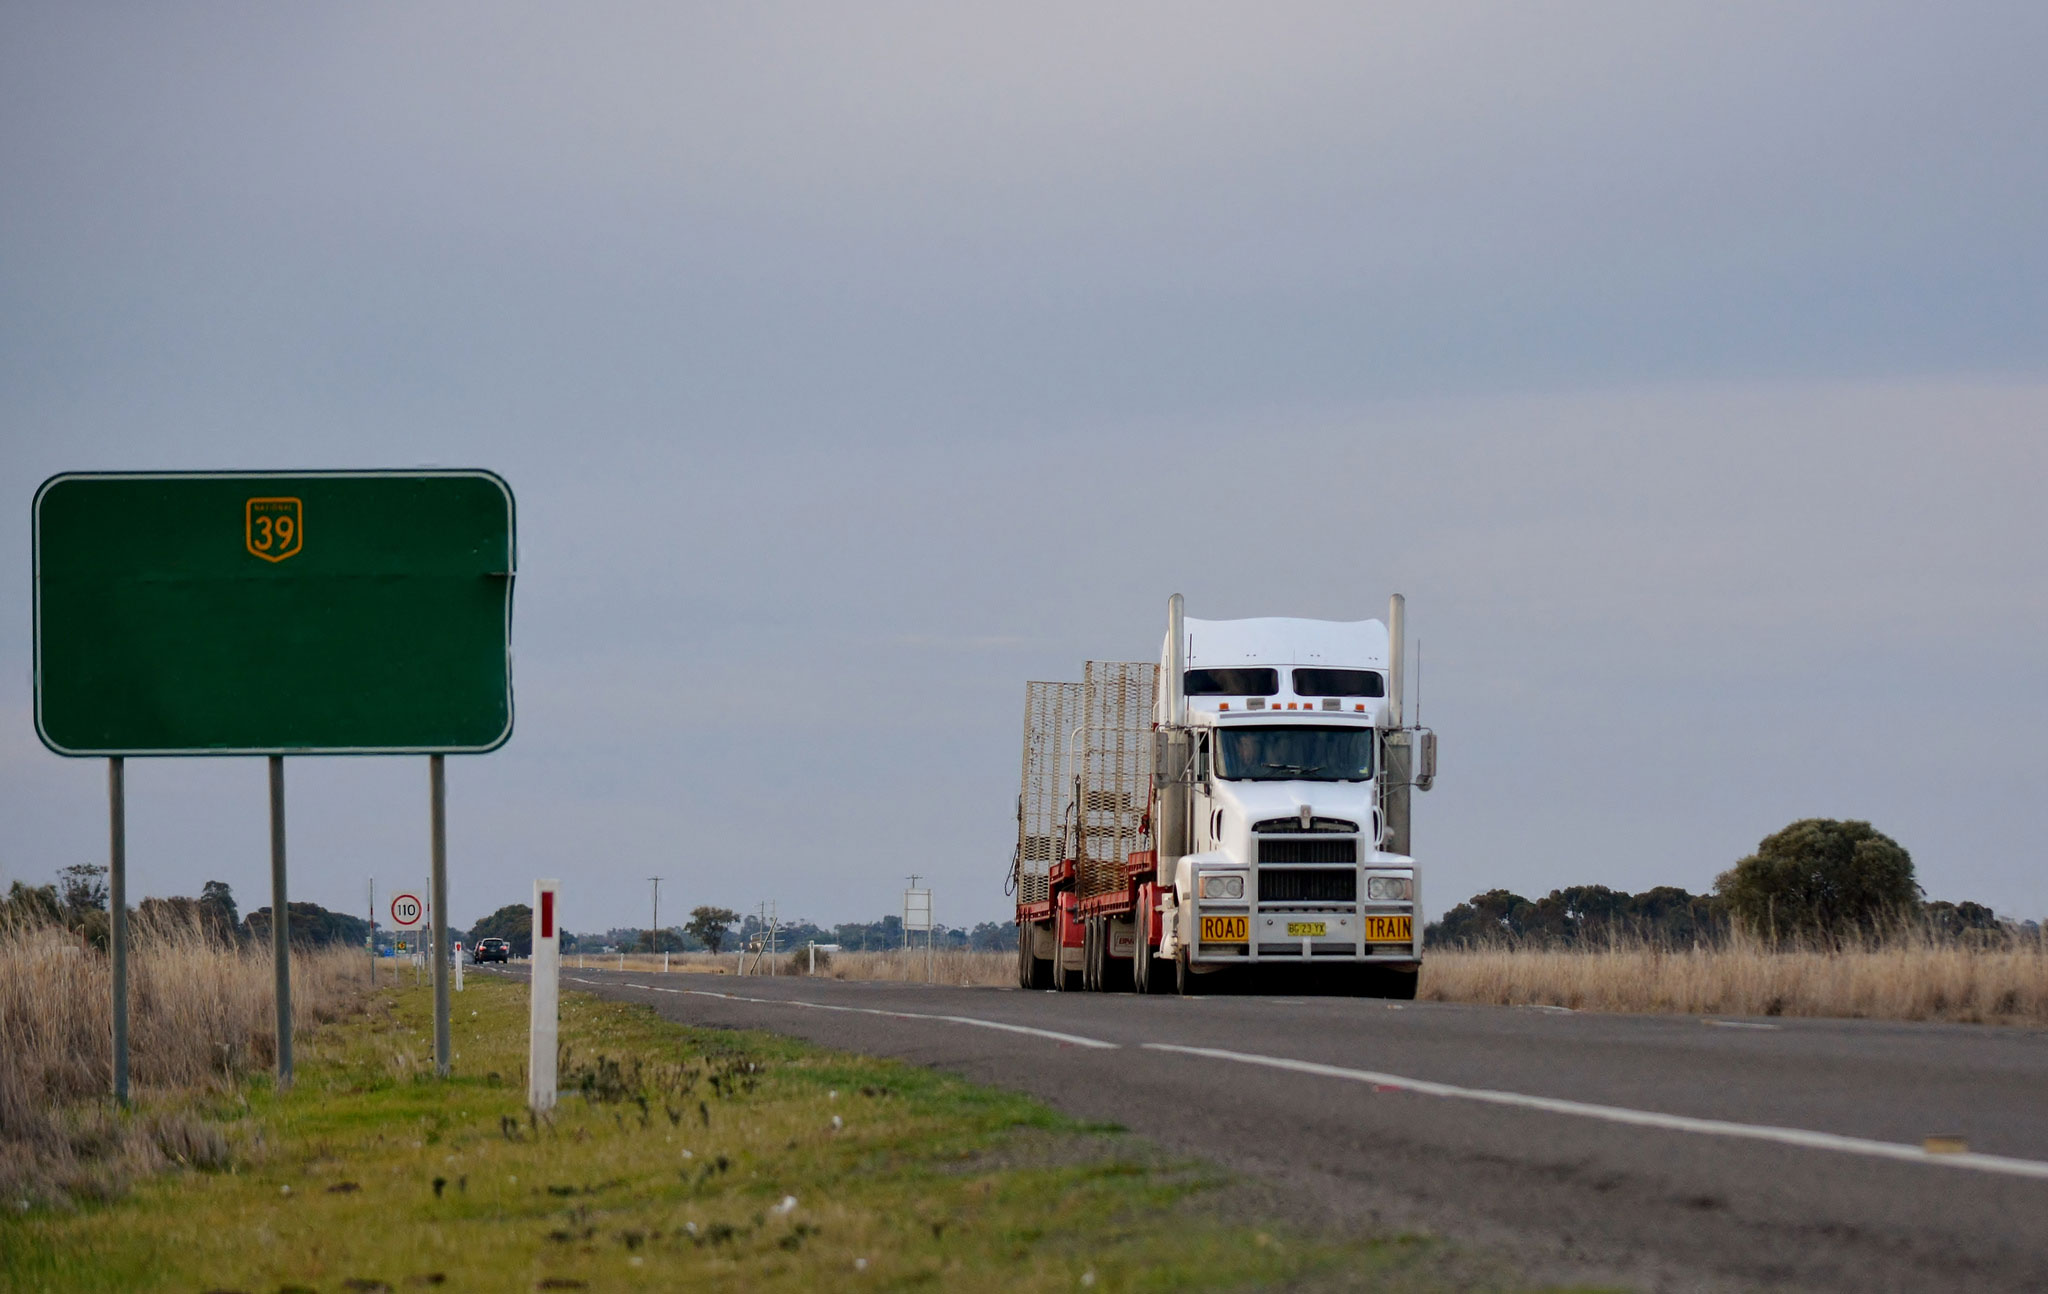
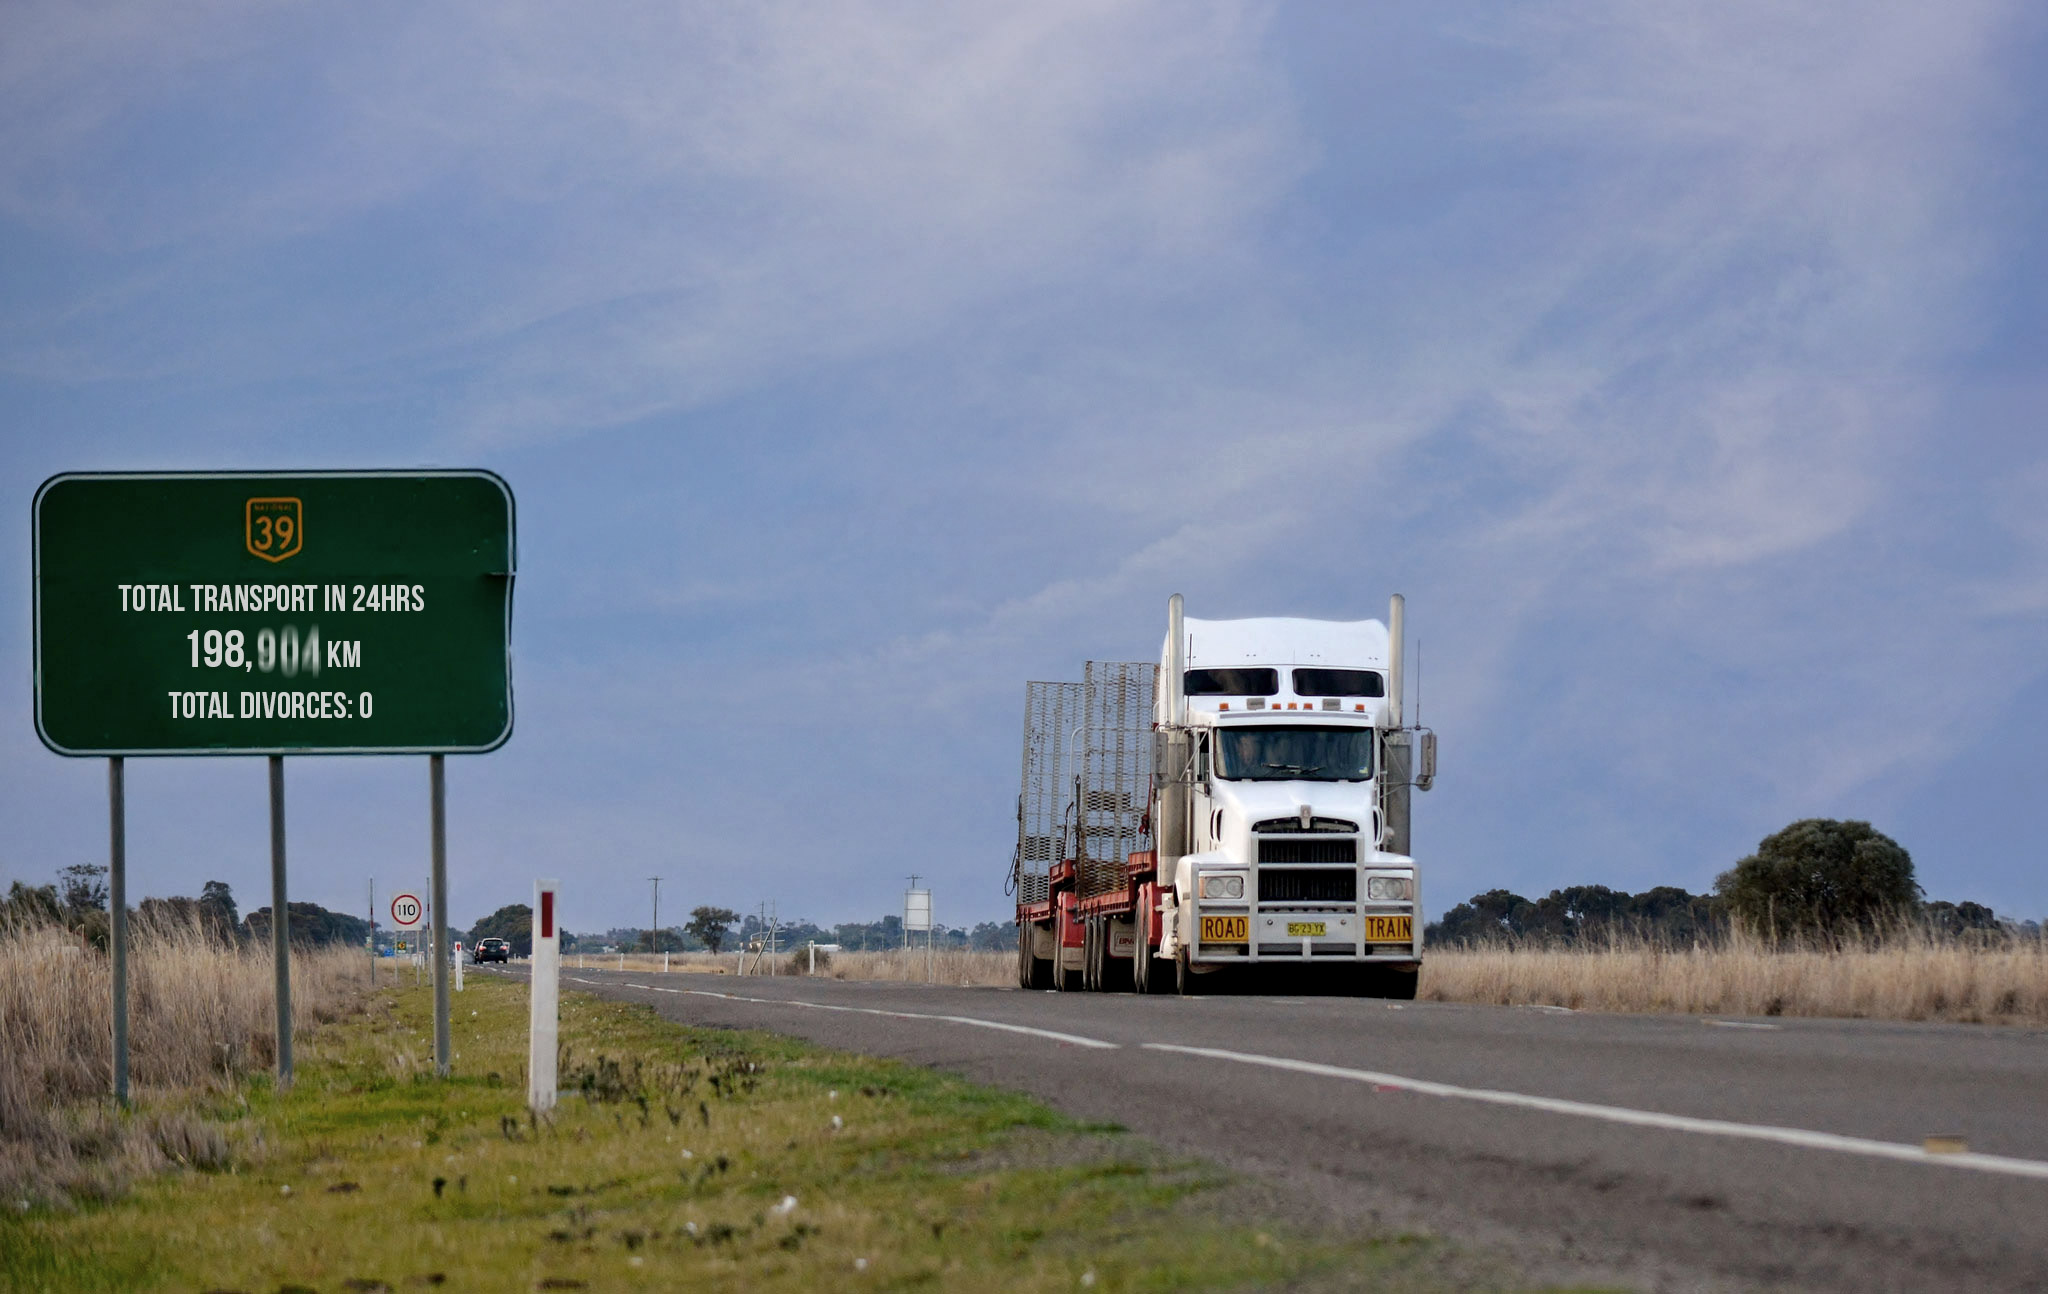
Blue sky update

diff --git a/src/_scss/app/layout/_header.scss b/src/_scss/app/layout/_header.scss
@@ -84,12 +84,21 @@ $header-height-lg: 220px !default;
 }
 
 //-----------------------------------------------------------------
+// Container
+//-----------------------------------------------------------------
+
+.global-header .container {
+	position: relative;
+}
+
+//-----------------------------------------------------------------
 // Logo
 //-----------------------------------------------------------------
 
 .global-header .logo {
 	position: relative;
 	top: 0;
+	display: inline-block;
 
 	@include media-breakpoint-up(md) {
 	    top: 0;
@@ -105,17 +114,18 @@ $header-height-lg: 220px !default;
 
 	img {
 		// width: auto;
-		width: 150px;
+		width: 120px;
 		height: $header-height-sm;
 		padding: rem-calc(5 0);
 
 		@include media-breakpoint-up(md) {
-			width: 298px;
+			width: 250px;
 		    height: $header-height-md;
 		    padding: rem-calc(15 0);
 		}
 
 		@include media-breakpoint-up(xl) {
+			width: 300px;
 		    height: auto;
 		    padding: none;
 		}
@@ -123,26 +133,71 @@ $header-height-lg: 220px !default;
 }
 
 //-----------------------------------------------------------------
+// Counter
+//-----------------------------------------------------------------
+
+.global-header .counter {
+	position: relative;
+	// top: 3px;
+	display: inline-block;
+	color: white;
+	padding-right: 200px;
+	float: right;
+
+	.number,
+	.km {
+		font-weight: bold;
+		font-size: rem-calc(40);
+	}
+
+	.km {
+		font-weight: 300;
+	}
+
+	.text {
+		display: inline-block;
+		padding-left: 5px;
+		max-width: 140px;
+		font-size: rem-calc(12);
+	}
+}
+
+//-----------------------------------------------------------------
 // Hamburger
 //-----------------------------------------------------------------
 
-.global-mobile-menu {
+.global-menu {
 	position: absolute;
 	right: 15px;
-	top: 50%;
+	top: calc(50% - 34px/2); // 34=height of buttons
 	display: block;
 	overflow: hidden;
-
-	@include media-breakpoint-up(md) {
-	    top: calc(50% - 30px/2);
-	}
+	text-transform: uppercase;
 
 	.hamburger {
-		display: block;
-		font-size: rem-calc(35);
-		line-height: 0;
-		color: #383D43;
+		float: right;
+		margin-left: 5px;
+	}
+
+	.global-menu-btn {
+		display: inline-block;
+		font-size: rem-calc(14);
+		line-height: 34px;
+		color: white;
 		cursor: pointer;
+		background: $brand-primary;
+		padding: rem-calc(0 15);
+		border-radius: 5px;
+
+		i {
+			@include media-breakpoint-up(sm) {
+			    padding-left: 6px;
+			}
+		}
+
+		&:hover {
+			background: lighten($brand-primary, 10%);
+		}
 	}
 }
 

diff --git a/src/_includes/footer.html b/src/_includes/footer.html
@@ -8,7 +8,8 @@
         <div class="row">
             <div class="col-md-3">
 
-                <h2>Company</h2>
+                <!-- Hardcoded Links -->
+                <h3>Company</h3>
                 <ul class="block-grid-xs-1">
                     <li><a href="/about-us/">About Us</a></li>
                     <li><a href="/history/">History</a></li>
@@ -20,10 +21,12 @@
                     <li><a href="/contact-us/">Contact Us</a></li>
                 </ul>
 
+                <div class="spacer m-b-1 hidden-md-up"></div>
+
             </div>
             <div class="col-md-6">
 
-                <h2>Categories</h2>
+                <h3>Categories</h3>
                 <ul class="block-grid-xs-1 block-grid-md-2">
                     {% for item in cargo_categories %}
                         <li class="{% if item.status == 'new' %}new-flag{% endif %}"><a href="#">{{ item.title }}</a></li>
@@ -31,9 +34,11 @@
                     <li><a href="#">And More...</a></li>
                 </ul>
 
+                <div class="spacer m-b-1 hidden-md-up"></div>
+
             </div>
             <div class="col-md-3">
-                <h2>Connect</h2>
+                <h3>Connect</h3>
                 <ul class="social-media">
                     <li class="facebook"><a href="{{ settings.facebook }}"><i class="fa fa-facebook"></i></a></li>
                     <li class="twitter"><a href="{{ settings.twitter }}"><i class="fa fa-twitter"></i></a></li>
@@ -48,10 +53,10 @@
 <section class="global-footer-bottom">
     <div class="container text-xs-center">
         <p>
-            <a href="/sitemap/">Sitemap</a>
-            <a href="/docs/">Docs</a><br>
-            &copy; Loadshift Transport System<br>
-            All Rights Reserved<br>
+            <a href="/sitemap/">Sitemap</a><br>
+            <!-- <a href="/docs/">Docs</a><br> -->
+            &copy; {{ site.time | date: '%Y' }} Loadshift Transport System<br>
+            All Rights Reserved.<br>
             Use of this website consitutes acceptance of loadshift's <a href="/terms-and-conditions/">Terms &amp; Conditions</a> and <a href="/privacy-policy/">Privacy Policy</a>.
         </p>
     </div>

diff --git a/src/_includes/header.html b/src/_includes/header.html
@@ -1,5 +1,4 @@
 {% assign settings = site.data.settings %}
-{% assign logo = "/assets/images/content/logo.png" %}
 {% assign logo = "/img/content/logo-white.svg" %}
 
 <div class="container">
@@ -11,9 +10,17 @@
                 <img src="{{ logo }}" alt="{{ settings.company_title }}" itemprop="logo">
             </a>
 
-            <!-- Hamburger -->
-            <div class="global-mobile-menu hidden-xl-up">
-                <a class="hamburger"><i class="fa fa fa-navicon"></i></a>
+            <!-- Counter -->
+            <div class="counter hidden-md-down fill-1">
+                <span class="number">198,001</span>
+                <span class="km">km</span>
+                <span class="text">of requested transport added in the last 24hrs.</span>
+            </div>
+
+            <!-- Menu -->
+            <div class="global-menu">
+                <a class="global-menu-btn hamburger"><span>Menu</span><i class="fa fa fa-navicon hidden-sm-down"></i></a>
+                <a class="global-menu-btn"><span class="hidden-sm-down">Login</span><i class="fa fa fa-user"></i></a>
             </div>
 
         </div>

diff --git a/src/_scss/bootstrap/_settings.scss b/src/_scss/bootstrap/_settings.scss
@@ -194,7 +194,7 @@ $lg-only: "screen and (min-width: #{map-get($grid-breakpoints, lg)}) and (max-wi
 // // Pixel value used to responsively scale all typography. Applied to the `<html>` element.
 // $font-size-root:             16px !default;
 
-// $font-size-base:             1rem !default;
+$font-size-base:             rem-calc(14); //1rem !default;
 // $font-size-lg:               1.25rem !default;
 // $font-size-sm:               .875rem !default;
 // $font-size-xs:               .75rem !default;
@@ -219,8 +219,8 @@ $lg-only: "screen and (min-width: #{map-get($grid-breakpoints, lg)}) and (max-wi
 // $line-height:                1.5 !default;
 
 // $headings-margin-bottom:     ($spacer / 2) !default;
-$headings-font-family:          'Jura', sans-serif; //inherit !default;
-$headings-font-weight:       600 !default;
+// $headings-font-family:          'Jura', sans-serif; //inherit !default;
+$headings-font-weight:       500 !default;
 // $headings-line-height:       1.1 !default;
 $headings-color:             $brand-primary; //inherit !default;
 

diff --git a/src/_scss/app/components/_social-media.scss b/src/_scss/app/components/_social-media.scss
@@ -22,15 +22,22 @@
 
 	a {
 		display: inline-block;
+		width: 44px;
+		height: 44px;
+		margin: rem-calc(0 5 5 0);
+		border-radius: 8px;
+		line-height: 44px;
 		background: $brand-primary;
-		width: 60px;
-		height: 60px;
-		line-height: 60px;
-		font-size: rem-calc(40);
+		font-size: rem-calc(25);
 		color: white;
 		text-align: center;
-		border-radius: 8px;
-		margin-bottom: 5px;
+
+		@include media-breakpoint-up(lg) {
+		    width: 60px;
+		    height: 60px;
+		    line-height: 60px;
+		    font-size: rem-calc(40);
+		}
 
 		&:hover {
 			background: lighten($brand-primary, 10%);

diff --git a/src/_scss/app/pages/_homepage.scss b/src/_scss/app/pages/_homepage.scss
@@ -12,9 +12,12 @@
 //-----------------------------------------------------------------
 
 .hero-feature-panels {
-	position: absolute;
-	bottom: 0;
 	width: 100%;
+
+	@include media-breakpoint-up(lg) {
+	    position: absolute;
+	    bottom: 0;
+	}
 
 	.container {
 		background: white;
@@ -31,6 +34,13 @@
 	// 	    padding: 0 7px;
 	// 	}
 	// }
+
+	a {
+		@include media-breakpoint-down(sm) {
+		    display: inline-block;
+		    margin-bottom: $spacer-y;
+		}
+	}
 
 	img {
 		// border: 10px solid white;

diff --git a/src/_scss/app/components/_type.scss b/src/_scss/app/components/_type.scss
@@ -27,7 +27,7 @@
 // }
 
 h1, h2, h3, h4, h5, h6 {
-	font-variant: small-caps;
+	// font-variant: small-caps;
 }
 
 //-----------------------------------------------------------------

diff --git a/src/_scss/app/components/_hero.scss b/src/_scss/app/components/_hero.scss
@@ -13,7 +13,7 @@
 
 .lv-hero {
 	@include media-breakpoint-up(lg) {
-	    height: 100vh;
+	    // height: 100vh;
 	}
 }
 
